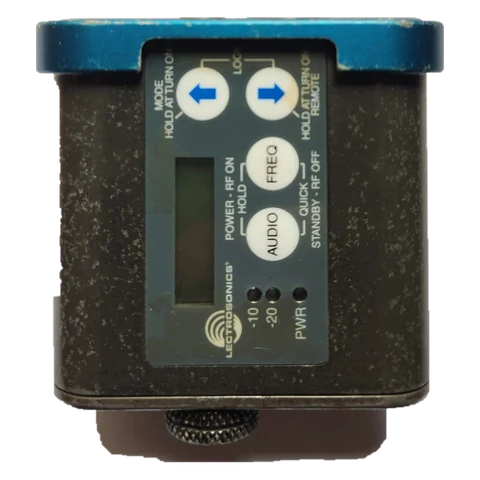
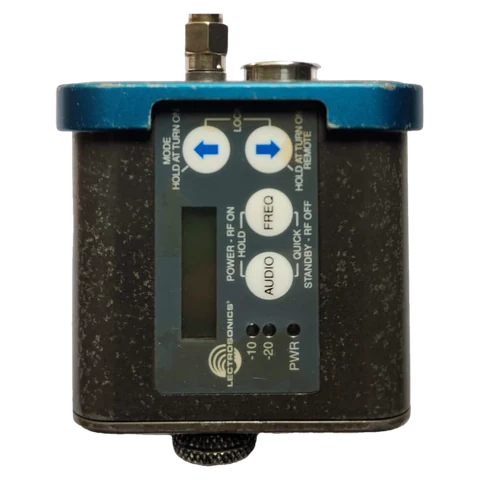
v1.43: fotos refeitas e A10, escolha sem pular passo, cápsula sem bloqueio, bloco colorido, setas
Claude-Session: https://claude.ai/code/session_01BhtL332448fDQDCKgyvfQU

diff --git a/index.html b/index.html
@@ -500,11 +500,25 @@ svg.rfg .tl{stroke:#f2c94c;stroke-width:2;vector-effect:non-scaling-stroke}svg.r
 svg.rfg .tn{fill:#f2c94c;font-size:10px;font-weight:700;text-anchor:middle}
 td.alarme{color:var(--bad);font-weight:700}
 ul.imd{font-size:.84rem;margin:.3rem 0 0;padding-left:1.2rem}
+
+/* v1.43 · bloco colorido, abas da escolha, setas e arraste */
+.blk.bcor{font-weight:800;border:1.5px solid;border-radius:4px;padding:.15rem .4rem .08rem}
+.card .blk{font-size:1.05rem}
+.blk.sm{font:800 .78rem/1 var(--fc);padding:.12rem .3rem .06rem;border:1.5px solid var(--ink);border-radius:3px;letter-spacing:.02em}
+.passos button{border:1.5px solid var(--line);background:var(--paper);font:600 .85rem var(--f);padding:.35rem .8rem;border-radius:999px;color:var(--ink2);cursor:pointer}
+.passos button.on{background:var(--ink);border-color:var(--ink);color:#fff}
+.carta .cs.av{color:#b3261e}
+.carwrap{position:relative}
+.carseta{position:absolute;top:38%;transform:translateY(-50%);z-index:2;width:2.3rem;height:2.3rem;border-radius:999px;border:1px solid var(--line);background:rgba(255,255,255,.95);font:700 1.4rem/1 var(--f);color:var(--ink);box-shadow:0 2px 8px rgba(0,0,0,.18);cursor:pointer;display:none}
+.carseta.e{left:-.4rem}.carseta.d{right:-.4rem}
+@media(hover:hover) and (pointer:fine){.carseta{display:grid;place-items:center}}
+.carrossel,.grid.carr{cursor:grab}.arrastando{cursor:grabbing;scroll-snap-type:none!important;user-select:none}
+.arrastando *{pointer-events:none}
 </style>
 </head>
 <body>
 <header class="top">
-  <div><h1>Perícia Lab · Carômetro</h1><small>Quem está com qual transmissor e cápsula, episódio a episódio · <span id="versao">v1.42 · 27/10 22:40</span></small></div>
+  <div><h1>Perícia Lab · Carômetro</h1><small>Quem está com qual transmissor e cápsula, episódio a episódio · <span id="versao">v1.43 · 27/10 23:20</span></small></div>
   <div class="sp"></div>
   <button class="pill" id="status" type="button" data-act="sync">carregando…</button>
 </header>
@@ -873,7 +887,7 @@ function rxTxt(t){
 function cardHtml(x,col){
   var p=x.p,e=x.e,t=x.t,bad=x.av.some(function(a){return a.k==='bad';});
   var ch=col&&col.map[p.id],tc=x.ativo&&e?timeCls(e.time):'';
-  var rf=t&&t.num!=='GN'?'<span class="rf">'+(t.bloco?'<span class="blk">Bloco '+esc(t.bloco)+'</span>':'')+(isNaN(t.freq)?'':'<span class="fq"><b>'+mhz(t.freq)+'</b> MHz</span>')+(t.cod?'<span class="cod" title="código">'+esc(t.cod)+'</span>':'')+'</span>':'';
+  var rf=t&&t.num!=='GN'?'<span class="rf">'+blocoTag(t)+(isNaN(t.freq)?'':'<span class="fq"><b>'+mhz(t.freq)+'</b> MHz</span>')+(t.cod?'<span class="cod" title="código">'+esc(t.cod)+'</span>':'')+'</span>':'';
   var rx=t?rxTxt(t):'';
   return '<button class="card'+(x.ativo?'':' fora')+(bad&&x.ativo?' bad':'')+(tc?' '+tc:'')+'" type="button" data-act="abrir" data-id="'+esc(p.id)+'" data-busca="'+esc(buscaTxt(x,ch))+'">'+
     fotoGrande(p)+(function(){var r=/^(HOST|MENTOR)$/.test(p.papel)?papelTxt(p):'';var tx=r;return tx?'<span class="papel">'+esc(tx)+'</span>':'';})()+(tc?'<span class="timefaixa">'+esc(timeNome(e.time))+'</span>':'')+
@@ -1124,7 +1138,11 @@ function fotoEquip(tipo,o){
   return '<svg viewBox="0 0 60 80" aria-hidden="true"><path d="M30 34 C 30 52, 18 58, 22 76" stroke="'+cc+'" stroke-width="3" fill="none"/><rect x="24" y="14" width="12" height="22" rx="6" fill="'+cc+'" stroke="rgba(0,0,0,.35)"/></svg>';
 }
 /* fotos de referência por modelo (pasta img/tx do site); a foto de cada aparelho, se houver, tem prioridade */
-function imgModeloTx(m){m=String(m||'');return /DBSMD|SMDB/i.test(m)?'img/tx/dbsmd.webp':/^SMQV|^SMV\b/i.test(m)?'img/tx/smqv.webp':/^SSM/i.test(m)?'img/tx/ssm.webp':/^UM(400|200)/i.test(m)?'img/tx/um.webp':'';}
+function imgModeloTx(m){m=String(m||'');return /DBSMD|SMDB/i.test(m)?'img/tx/dbsmd.webp':/^SMQV|^SMV\b/i.test(m)?'img/tx/smqv.webp':/^SSM/i.test(m)?'img/tx/ssm.webp':/^UM(400|200)/i.test(m)?'img/tx/um.webp':/^A10/i.test(m)?'img/tx/a10.webp':'';}
+var COR_BLOCO={19:'#16181c',20:'#16181c',21:'#6e4424',22:'#d0302a',23:'#ee7a1c',24:'#f2c81a',25:'#2c9a49',26:'#2766cf',27:'#b058d6',28:'#8a8f98',29:'#f4f4f4',470:'#16181c'};
+function blocoNum(t){if(!t||isNaN(t.freq)||!LECTRO.test(t.modelo||''))return 0;return Math.floor((Math.round(t.freq*1000)+1e-6)/25600);}
+function blocoTag(t,cls){if(!t||!t.bloco)return '';var n=blocoNum(t),c=COR_BLOCO[n],claro=n===24||n===29;
+  return '<span class="blk'+(c?' bcor':'')+(cls?' '+cls:'')+'"'+(c?' style="background:'+c+';border-color:'+c+';color:'+(claro?'#15181d':'#fff')+'"':'')+' title="'+(n?'bloco '+n+' (cor Lectrosonics)':'bloco')+'">'+esc(/^\d+$/.test(t.bloco)?'Bloco '+t.bloco:t.bloco+(n?' · '+n:''))+'</span>';}
 function podeFoto(){return MODO==='demo'||!!D.script;}
 function camBtn(tipo,id){return podeFoto()?'<label class="cam" title="Foto"><span aria-hidden="true">📷</span><input type="file" accept="image/*" data-act="fotoeq" data-aba="'+tipo+'" data-id="'+esc(id)+'" class="sr"></label>':'';}
 function cartaTx(t2,s,p,sel){
@@ -1132,39 +1150,41 @@ function cartaTx(t2,s,p,sel){
   var bloq=(dev||quem.length)&&!sel,porque=dev?'devolvido':quem.length?'com '+primeiroNome(D.pPor[quem[0]]):'livre';
   return '<div class="carta'+(sel?' sel':'')+(bloq?' bloq':'')+'"><button type="button" class="cb" data-act="wiztx" data-v="'+esc(t2.num)+'"'+(bloq?' disabled':'')+'>'+
     '<span class="cf">'+fotoEquip('tx',t2)+'</span><span class="cn">'+esc(t2.nome||'TX '+t2.num)+'</span>'+
-    '<span class="ci">'+(t2.bloco?'Bloco '+esc(t2.bloco)+' · ':'')+(isNaN(t2.freq)?'':mhz(t2.freq))+'</span><span class="cs'+(bloq?' x':'')+'">'+esc(porque)+'</span></button>'+camBtn('tx',t2.num)+'</div>';
+    '<span class="ci">'+blocoTag(t2,'sm')+' '+(isNaN(t2.freq)?'':mhz(t2.freq))+'</span><span class="cs'+(bloq?' x':'')+'">'+esc(porque)+'</span></button>'+camBtn('tx',t2.num)+'</div>';
 }
 function cartaCap(c,s,p,t,sel,usoAd){
   var ep=UI.ep,quem=(s.uso.cap[c.id]||[]).filter(function(id){return id!==p.id;}),dev=c.dev&&ep>c.dev;
   var k=compatCap(c,t),livres=k.ad&&D.capPor[k.adId]?D.capPor[k.adId].qtd-(usoAd[k.adId]||0):0,semAd=k.ok&&k.ad&&livres<=0;
-  var bloq=(dev||quem.length||!k.ok||semAd)&&!sel;
-  var porque=dev?'devolvida':quem.length?'com '+primeiroNome(D.pPor[quem[0]]):!k.ok?k.motivo:semAd?'sem adaptador livre':k.ad?'+ adaptador '+k.ad:(c.manut?'⚠ manutenção':'livre');
+  var bloq=(dev||quem.length)&&!sel,avisa=t&&(!k.ok||semAd);
+  var porque=dev?'devolvida':quem.length?'com '+primeiroNome(D.pPor[quem[0]]):!t?'livre':!k.ok?'⚠ '+k.motivo:semAd?'⚠ sem adaptador livre':k.ad?'+ adaptador '+k.ad:(c.manut?'⚠ manutenção':'livre');
   return '<div class="carta cap-'+(corDe(c.id)||'semcor')+(sel?' sel':'')+(bloq?' bloq':'')+'"><button type="button" class="cb" data-act="wizcap" data-v="'+esc(c.id)+'"'+(bloq?' disabled':'')+' title="'+esc(c.id)+'">'+
     '<span class="cf">'+fotoEquip('cap',c)+'</span><span class="cn">'+esc(capNome(c.id))+(redMark(c.id)?'<i class="rm"></i>':'')+'</span>'+
-    '<span class="ci">'+esc([c.term,c.serial].filter(Boolean).join(' · '))+'</span><span class="cs'+(bloq?' x':'')+'">'+esc(porque)+'</span></button>'+camBtn('cap',c.id)+'</div>';
+    '<span class="ci">'+esc([c.term,c.serial].filter(Boolean).join(' · '))+'</span><span class="cs'+(bloq?' x':avisa?' av':'')+'">'+esc(porque)+'</span></button>'+camBtn('cap',c.id)+'</div>';
 }
 function wizHtml(x,s){
   var p=x.p,tipo=tipoCap(p),W=WIZ,h='';
-  var passos='<div class="passos"><span class="'+(W.passo==='tx'?'on':'ok')+'">1 · Transmissor</span><span class="'+(W.passo==='cap'?'on':'')+'">2 · Cápsula</span></div>';
+  var tt=W.tx?D.txPor[W.tx]:null;
+  var passos='<div class="passos" role="tablist"><button type="button" role="tab" data-act="wizir" data-v="tx" class="'+(W.passo==='tx'?'on':'')+'" aria-selected="'+(W.passo==='tx')+'">Transmissor'+(W.tx?' · '+esc(txNome(tt,W.tx)):'')+'</button><button type="button" role="tab" data-act="wizir" data-v="cap" class="'+(W.passo==='cap'?'on':'')+'" aria-selected="'+(W.passo==='cap')+'">Cápsula'+(W.cap?' · '+esc(capNome(W.cap)):'')+'</button></div>';
   h+=passos;
   if(W.passo==='tx'){
     var txs=D.tx.filter(function(t2){return !t2.mon&&(tipo==='gooseneck'?t2.num==='GN':t2.num!=='GN');});
     txs.sort(function(a,b){var ua=(s.uso.tx[a.num]||[]).filter(function(i){return i!==p.id;}).length,ub=(s.uso.tx[b.num]||[]).filter(function(i){return i!==p.id;}).length;return (a.num===W.tx?-1:b.num===W.tx?1:0)||ua-ub||(int(a.num)||90)-(int(b.num)||90);});
-    h+='<div class="carrossel">'+txs.map(function(t2){return cartaTx(t2,s,p,W.tx===t2.num);}).join('')+'</div>';
-    h+='<div class="wizbar"><button class="btn" type="button" data-act="wizsem" data-v="tx">Sem transmissor</button><span class="sp"></span>'+(W.tx?'<button class="btn pri" type="button" data-act="wizir" data-v="cap">Cápsula →</button>':'')+'</div>';
+    h+='<div class="carwrap"><button type="button" class="carseta e" data-act="carseta" data-d="-1" aria-label="Anterior">‹</button><div class="carrossel">'+txs.map(function(t2){return cartaTx(t2,s,p,W.tx===t2.num);}).join('')+'</div><button type="button" class="carseta d" data-act="carseta" data-d="1" aria-label="Próximo">›</button></div>';
+    h+='<div class="wizbar"><button class="btn" type="button" data-act="wizsem" data-v="tx">Sem transmissor</button><span class="sp"></span><button class="btn" type="button" data-act="wizir" data-v="cap">Cápsula →</button>'+(mudouWiz(x)?'<button class="btn pri" type="button" data-act="wizok">OK</button>':'')+'</div>';
   }else{
     var t=W.tx?D.txPor[W.tx]:null,usoAd=adaptUso(UI.ep,p.id);
     var caps=D.cap.filter(function(c){return c.tipo===tipo;});
-    caps.sort(function(a,b){var ka=compatCap(a,t).ok&&!(s.uso.cap[a.id]||[]).filter(function(i){return i!==p.id;}).length,kb=compatCap(b,t).ok&&!(s.uso.cap[b.id]||[]).filter(function(i){return i!==p.id;}).length;return (a.id===W.cap?-1:b.id===W.cap?1:0)||(kb-ka)||nat(a.id,b.id);});
+    caps.sort(function(a,b){var ka=(!t||compatCap(a,t).ok)&&!(s.uso.cap[a.id]||[]).filter(function(i){return i!==p.id;}).length,kb=(!t||compatCap(b,t).ok)&&!(s.uso.cap[b.id]||[]).filter(function(i){return i!==p.id;}).length;return (a.id===W.cap?-1:b.id===W.cap?1:0)||(kb-ka)||nat(a.id,b.id);});
     h+='<p class="hint" style="margin:.2rem 0 .4rem">'+(t?'No '+esc(t.nome)+(t.conector?' (entrada '+esc(t.conector)+')':''):'Sem transmissor')+'</p>';
-    h+='<div class="carrossel">'+caps.map(function(c){return cartaCap(c,s,p,t,W.cap===c.id,usoAd);}).join('')+'</div>';
-    h+='<div class="wizbar"><button class="btn" type="button" data-act="wizir" data-v="tx">← Transmissor</button><button class="btn" type="button" data-act="wizsem" data-v="cap">Sem cápsula</button><span class="sp"></span><button class="btn pri" type="button" data-act="wizok">OK</button></div>';
+    h+='<div class="carwrap"><button type="button" class="carseta e" data-act="carseta" data-d="-1" aria-label="Anterior">‹</button><div class="carrossel">'+caps.map(function(c){return cartaCap(c,s,p,t,W.cap===c.id,usoAd);}).join('')+'</div><button type="button" class="carseta d" data-act="carseta" data-d="1" aria-label="Próximo">›</button></div>';
+    h+='<div class="wizbar"><button class="btn" type="button" data-act="wizir" data-v="tx">← Transmissor</button><button class="btn" type="button" data-act="wizsem" data-v="cap">Sem cápsula</button><span class="sp"></span><button class="btn pri" type="button" data-act="wizok"'+(mudouWiz(x)?'':' disabled')+'>OK</button></div>';
   }
   return h;
 }
+function mudouWiz(x){var e=x.e||{};return !!WIZ&&((WIZ.tx||'')!==(e.tx||'')||(WIZ.cap||'')!==(e.cap||''));}
 function resumoEsc(x){
   var e=x.e||{},t=x.t;
-  var rf=t&&t.num!=='GN'?[t.bloco?'Bloco '+t.bloco:'',isNaN(t.freq)?'':mhz(t.freq)+' MHz',t.cod?'código '+t.cod:''].filter(Boolean).join(' · '):'';
+  var rf=t&&t.num!=='GN'?[isNaN(t.freq)?'':mhz(t.freq)+' MHz',t.cod?'código '+t.cod:''].filter(Boolean).join(' · '):'';
   return '<div class="resumo"><div class="rq"><span class="cf">'+(t?fotoEquip('tx',t):'')+'</span><div><b>'+(e.tx?esc(txNome(t,e.tx)):'Sem transmissor')+'</b><small>'+esc(rf)+'</small>'+(t?'<small>'+esc(rxTxt(t))+(t.canal?' · '+esc(t.canal):'')+'</small>':'')+'</div></div>'+
     '<div class="rq"><span class="cf">'+(e.cap&&D.capPor[e.cap]?fotoEquip('cap',D.capPor[e.cap]):'')+'</span><div>'+(e.cap?capTag(e.cap)+' '+invIcon(e.cap):'<b>Sem cápsula</b>')+(function(){var k=e.cap?compatCap(D.capPor[e.cap],t):{};return k.ok&&k.ad?'<small>+ adaptador MicroDot → '+esc(k.ad)+'</small>':'';})()+'</div></div>'+
     '<button class="btn pri lapisbtn" type="button" data-act="wizabrir">✎ Editar</button></div>';
@@ -1182,9 +1202,9 @@ function editorHtml(){
   }
   if(x.av.length)h+='<div class="alertas">'+x.av.map(function(a){
       return '<div class="alerta '+a.k+'">'+esc(a.t[0].toUpperCase()+a.t.slice(1))+(a.ajuste?' (TX '+esc(t.num)+' em '+mhz(t.freq)+' MHz)<span class="sp"></span><button class="btn sm" type="button" data-act="ajustado" data-tx="'+esc(t.num)+'">Já ajustei</button>':'')+'</div>';}).join('')+'</div>';
-  if(WIZ&&WIZ.id===p.id)h+=wizHtml(x,s);
-  else h+=resumoEsc(x);
-  if(!WIZ||WIZ.id!==p.id){
+  if(!WIZ||WIZ.id!==p.id)WIZ={id:p.id,passo:'tx',tx:e.tx||'',cap:e.cap||''};
+  h+=wizHtml(x,s);
+  {
     if(p.papel==='MENTOR'&&t&&t.rxM)h+='<p class="hint">Sala dos mentores: '+esc(t.rxM)+' · '+esc(t.canalM)+'</p>';
     if(p.papel==='PARTICIPANTE'||p.papel==='CONVIDADO')
       h+='<h3>Time</h3><span class="seg" role="group" aria-label="Time">'+['A','B',''].map(function(v){return '<button type="button" class="'+timeCls(v)+'" data-act="time" data-v="'+(v?TIMES[v].grava:'')+'" aria-pressed="'+((e.time||'')===v)+'">'+(timeNome(v)||'—')+'</button>';}).join('')+'</span>';
@@ -1195,14 +1215,18 @@ function editorHtml(){
   h+='</div></div></div>';
   return h;
 }
-function abrir(id){EDIT=id;var s=situacao(UI.ep),x=s.pessoas.filter(function(y){return y.p.id===id;})[0];
-  WIZ=x&&x.ativo&&!(x.e&&(x.e.tx||x.e.cap))?{id:id,passo:'tx',tx:'',cap:''}:null;renderModal();}
-function fechar(){EDIT=null;WIZ=null;renderModal();render();}
+function abrir(id){EDIT=id;var s=situacao(UI.ep),x=s.pessoas.filter(function(y){return y.p.id===id;})[0],e=(x&&x.e)||{};
+  WIZ=x&&x.ativo?{id:id,passo:'tx',tx:e.tx||'',cap:e.cap||''}:null;renderModal();}
+function fechar(){
+  if(EDIT&&WIZ){var x=situacao(UI.ep).pessoas.filter(function(y){return y.p.id===EDIT;})[0];
+    if(x&&mudouWiz(x)&&confirm('Salvar a troca de transmissor/cápsula antes de fechar?'))fazer({acao:'escalar',ep:UI.ep,id:EDIT,tx:WIZ.tx,cap:WIZ.cap});}
+  EDIT=null;WIZ=null;renderModal();render();}
 function renderModal(){
   var m=$('#modal');
   var car=m.querySelector('.carrossel'),sx=car?car.scrollLeft:0,passo=WIZ&&WIZ.passo;
   m.innerHTML=EDIT?editorHtml():FORM?formHtml():'';
   var c2=m.querySelector('.carrossel');if(c2&&passo===(WIZ&&WIZ.passo))c2.scrollLeft=sx;
+  ligarArraste(m);
   document.body.style.overflow=EDIT||FORM?'hidden':'';
 }
 
@@ -1348,6 +1372,16 @@ function viewRf(){
   return h+'</section>';
 }
 
+/* arrastar com o mouse rola o carrossel (no celular o dedo já rola) */
+var ARRASTOU=false;
+function ligarArraste(raiz){
+  (raiz||document).querySelectorAll('.carrossel,.grid.carr').forEach(function(c){if(c._arr)return;c._arr=1;
+    var x0=0,s0=0,ativo=false;
+    c.addEventListener('mousedown',function(ev){if(ev.button!==0)return;ativo=true;ARRASTOU=false;x0=ev.clientX;s0=c.scrollLeft;});
+    window.addEventListener('mousemove',function(ev){if(!ativo)return;var dx=ev.clientX-x0;if(Math.abs(dx)>6&&!ARRASTOU){ARRASTOU=true;c.classList.add('arrastando');}if(ARRASTOU){c.scrollLeft=s0-dx;ev.preventDefault();}});
+    window.addEventListener('mouseup',function(){if(!ativo)return;ativo=false;c.classList.remove('arrastando');setTimeout(function(){ARRASTOU=false;},0);});
+  });
+}
 /* ───────── report ───────── */
 function decodificar(s){var t=document.createElement('textarea');t.innerHTML=s;return t.value;}
 function lerReport(texto){
@@ -2333,6 +2367,7 @@ function render(){
   $('#app').innerHTML=pre+({car:viewCar,doc:viewDoc,mix:viewMix,con:viewCon,inv:viewInv,rf:viewRf,dev:viewInv,tec:viewTec}[UI.view]||viewCar)();
   if(EDIT)renderModal();
   if(UI.view==='car'&&BUSCA)aplicarBusca();
+  ligarArraste(document);
   if(UI.view==='mix'&&(MBUSCA))aplicarBuscaMix();
   setStatus();
 }
@@ -2361,7 +2396,7 @@ document.addEventListener('click',function(ev){
   if(a==='view'){UI.view=v;salvarUi();render();window.scrollTo(0,0);}
   else if(a==='devep'){UI.devEp=+el.dataset.ep;salvarUi();render();}
   else if(a==='avtoggle'){AVOPEN=AVOPEN===el.dataset.v&&el.dataset.v==='bad'?'':el.dataset.v;render();}
-  else if(a==='abrir')abrir(el.dataset.id);
+  else if(a==='abrir'){if(ARRASTOU)return;abrir(el.dataset.id);}
   else if(a==='fechar')fechar();
   else if(a==='sync'){if(MODO==='api')buscar();else{UI.view='tec';render();}}
   else if(a==='time'){var op={acao:'escalar',ep:UI.ep,id:EDIT};op[a]=v;fazer(op);renderModal();}
@@ -2370,11 +2405,12 @@ document.addEventListener('click',function(ev){
   else if(a==='desfazerelim'){fazer({acao:'eliminar',id:EDIT,ep:''});toast('Recuperado');fechar();}
   else if(a==='eliminar'){var pe=D.pPor[EDIT];if(pe&&confirm('Eliminar '+primeiroNome(pe)+'? O transmissor e a cápsula ficam livres. Dá para recuperar depois.')){fazer({acao:'eliminar',id:EDIT,ep:UI.ep});toast(primeiroNome(pe)+' eliminado');fechar();}}
   else if(a==='wizabrir'){var x0=situacao(UI.ep).pessoas.filter(function(y){return y.p.id===EDIT;})[0]||{};var e0=x0.e||{};WIZ={id:EDIT,passo:'tx',tx:e0.tx||'',cap:e0.cap||''};renderModal();}
-  else if(a==='wiztx'){WIZ.tx=v;var t0=D.txPor[v],c0=WIZ.cap&&D.capPor[WIZ.cap];if(c0&&!compatCap(c0,t0).ok)WIZ.cap='';WIZ.passo='cap';renderModal();}
-  else if(a==='wizcap'){WIZ.cap=v;renderModal();}
+  else if(a==='wiztx'){if(ARRASTOU)return;WIZ.tx=WIZ.tx===v?'':v;renderModal();}
+  else if(a==='wizcap'){if(ARRASTOU)return;WIZ.cap=WIZ.cap===v?'':v;renderModal();}
   else if(a==='wizsem'){if(v==='tx'){WIZ.tx='';WIZ.passo='cap';}else WIZ.cap='';renderModal();}
   else if(a==='wizir'){WIZ.passo=v;renderModal();}
-  else if(a==='wizok'){fazer({acao:'escalar',ep:UI.ep,id:EDIT,tx:WIZ.tx,cap:WIZ.cap});WIZ=null;renderModal();toast('Escalação salva');}
+  else if(a==='wizok'){fazer({acao:'escalar',ep:UI.ep,id:EDIT,tx:WIZ.tx,cap:WIZ.cap});WIZ.passo='tx';renderModal();toast('Escalação salva');}
+  else if(a==='carseta'){var cw=el.parentNode.querySelector('.carrossel,.grid.carr');if(cw)cw.scrollBy({left:(+el.dataset.d)*cw.clientWidth*0.8,behavior:'smooth'});}
   else if(a==='cfgtog'){UI.cfgAberto=!UI.cfgAberto;salvarUi();render();}
   else if(a==='cfgsalvar'){var nm=($('#cfgnome').value||'').trim();if(!nm){toast('Dê um nome à configuração.',true);return;}salvarConfig('car:'+Date.now().toString(36),nm);toast('Configuração salva');}
   else if(a==='cfgapagar'){var cf=D.configs.filter(function(c){return c.id===v;})[0];if(cf&&confirm('Apagar a configuração "'+cf.nome+'"?'))fazer({acao:'cena',id:v,apagar:true,pistas:'{}'});}

diff --git a/CHANGELOG.md b/CHANGELOG.md
@@ -5,6 +5,13 @@
 
 
 
+## v1.43 · 27/10/2026
+- Fotos dos transmissores refeitas: recorte sem sombra, com os conectores (só a antena foi cortada); foto do A10.
+- Tocar numa pessoa abre direto as cartas dos transmissores (sem o "Editar"). Tocar num transmissor só marca a escolha; as abas "Transmissor" e "Cápsula" no topo trocam de passo, e o OK grava. Fechar com mudança não salva pergunta se quer salvar.
+- Cápsulas não ficam mais bloqueadas pelo conector do transmissor: a carta só avisa (em vermelho) quando precisa de adaptador ou não combina.
+- Bloco em destaque no card, nas cartas e na tabela, com a cor de bloco da Lectrosonics (21 marrom, 22 vermelho, 23 laranja, 24 amarelo, 25 verde, 26 azul, 19/20/470 preto); nos wideband (A1B1, B1C1…) a cor é a do bloco da frequência.
+- No computador, setas e arrastar com o mouse para rolar as cartas.
+
 ## v1.42 · 27/10/2026
 - Fotos de referência dos transmissores (DBSMD, SMQV, SSM, UM400/UM200), recortadas sobre fundo transparente, nas cartas de escolha, no resumo e no inventário. Uma foto enviada pelo 📷 para um aparelho específico continua tendo prioridade.
 
